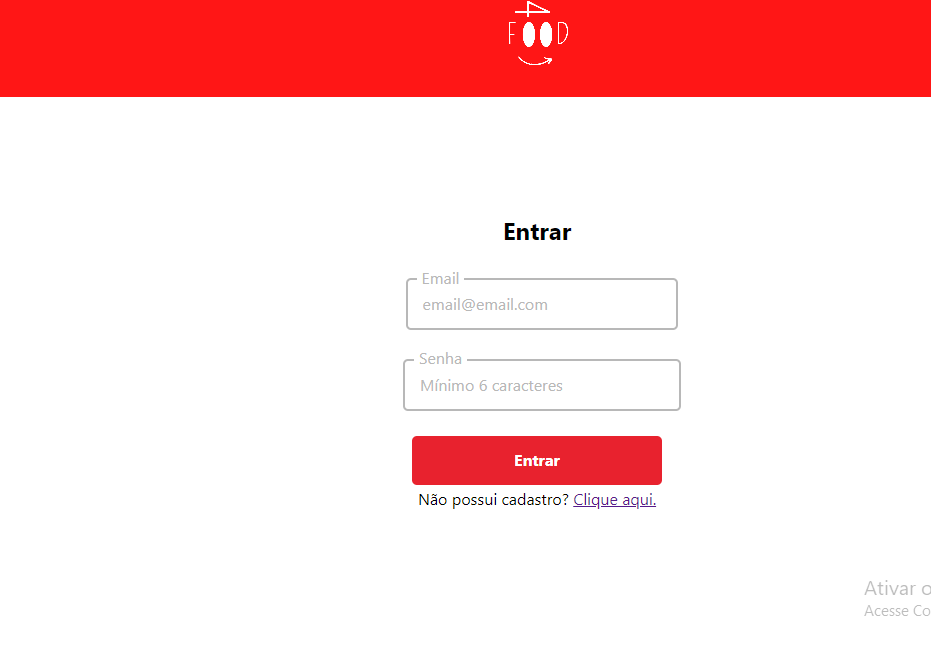
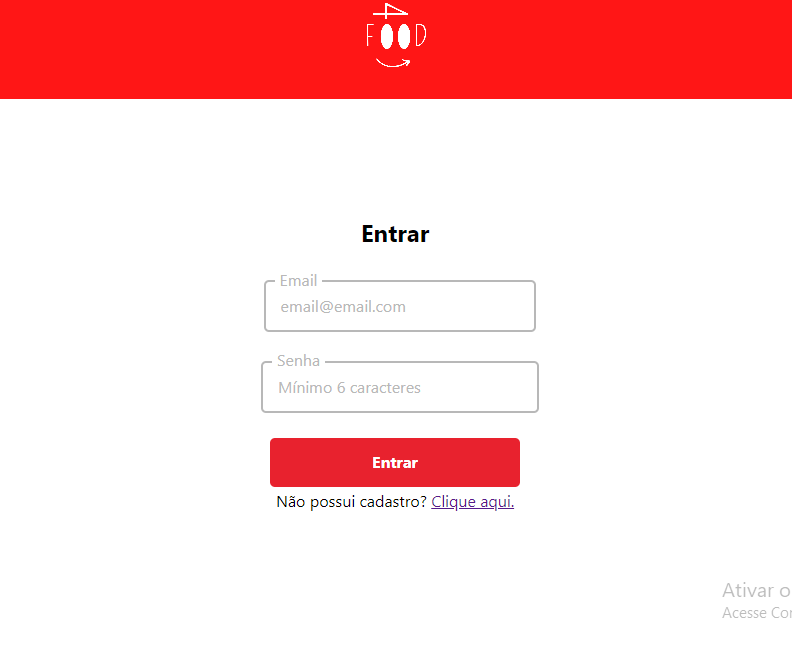
Atualizado

diff --git a/index.css b/index.css
@@ -76,9 +76,7 @@ h3{
 .informacao{
     display: flex;
     background-color: #191f22;
-    
 
-   
      
 }
 .informacao img{
@@ -111,8 +109,8 @@ h3{
 .btn-social{
     display: flex;
     justify-content: center;
-    margin-left: 20px;
-    margin-top: 20px;
+    margin-left: 150px;
+    margin-top: 30px;
     
 }
 
@@ -133,9 +131,8 @@ h3{
 
 .container{
     position: absolute;
-    width: 90%;
+    width: 80%;
     overflow: hidden;
-    margin-left: 50px;
     margin-top: 400px;
 
 }
@@ -145,13 +142,17 @@ h3{
     color: #a96bd8;
     font-size: 35px;
     font-weight: 600;
-
-   
+    margin-left: 300px;
+    
 }
 
 .container .text.first-text{
     color: #fff;
  
+}
+
+.container .text.sec-text{
+    margin-left: 550px;
 }
 
 .text.sec-text::before{
@@ -466,9 +467,18 @@ transition: 0.5s all;
 
 }
 
+.btn-social{
+    width: 85px;
+}
+
 .btn-social button{
+    margin: 10px;
+    
+    
+    
+}
+.btn-social a{
     margin-right: 40px;
-    margin-left: 10px;
     
 }
 
@@ -481,8 +491,16 @@ transition: 0.5s all;
 position: relative;
 font-size: 20px;
 
+}
+.container .text.first-text{
+    display: inline-block;
+    margin-left: 50px;
+    
+}
 
 
+.container .text.sec-text{
+    margin-left: 5px;
 }
 
 #meu-projeto{
